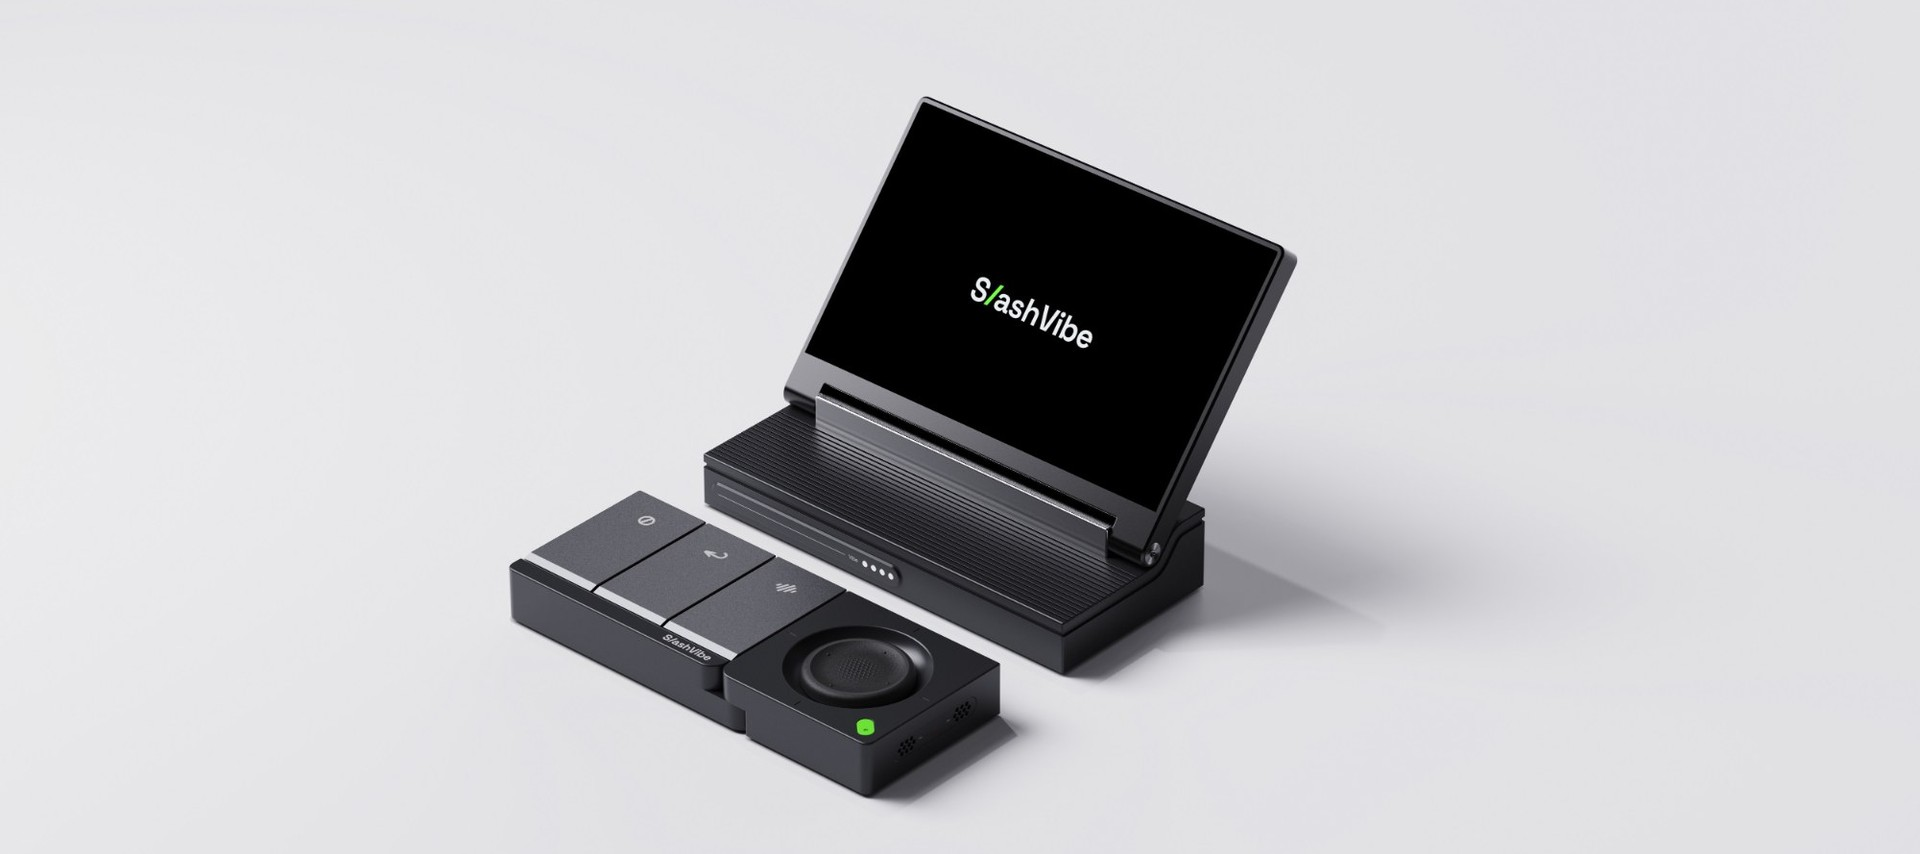
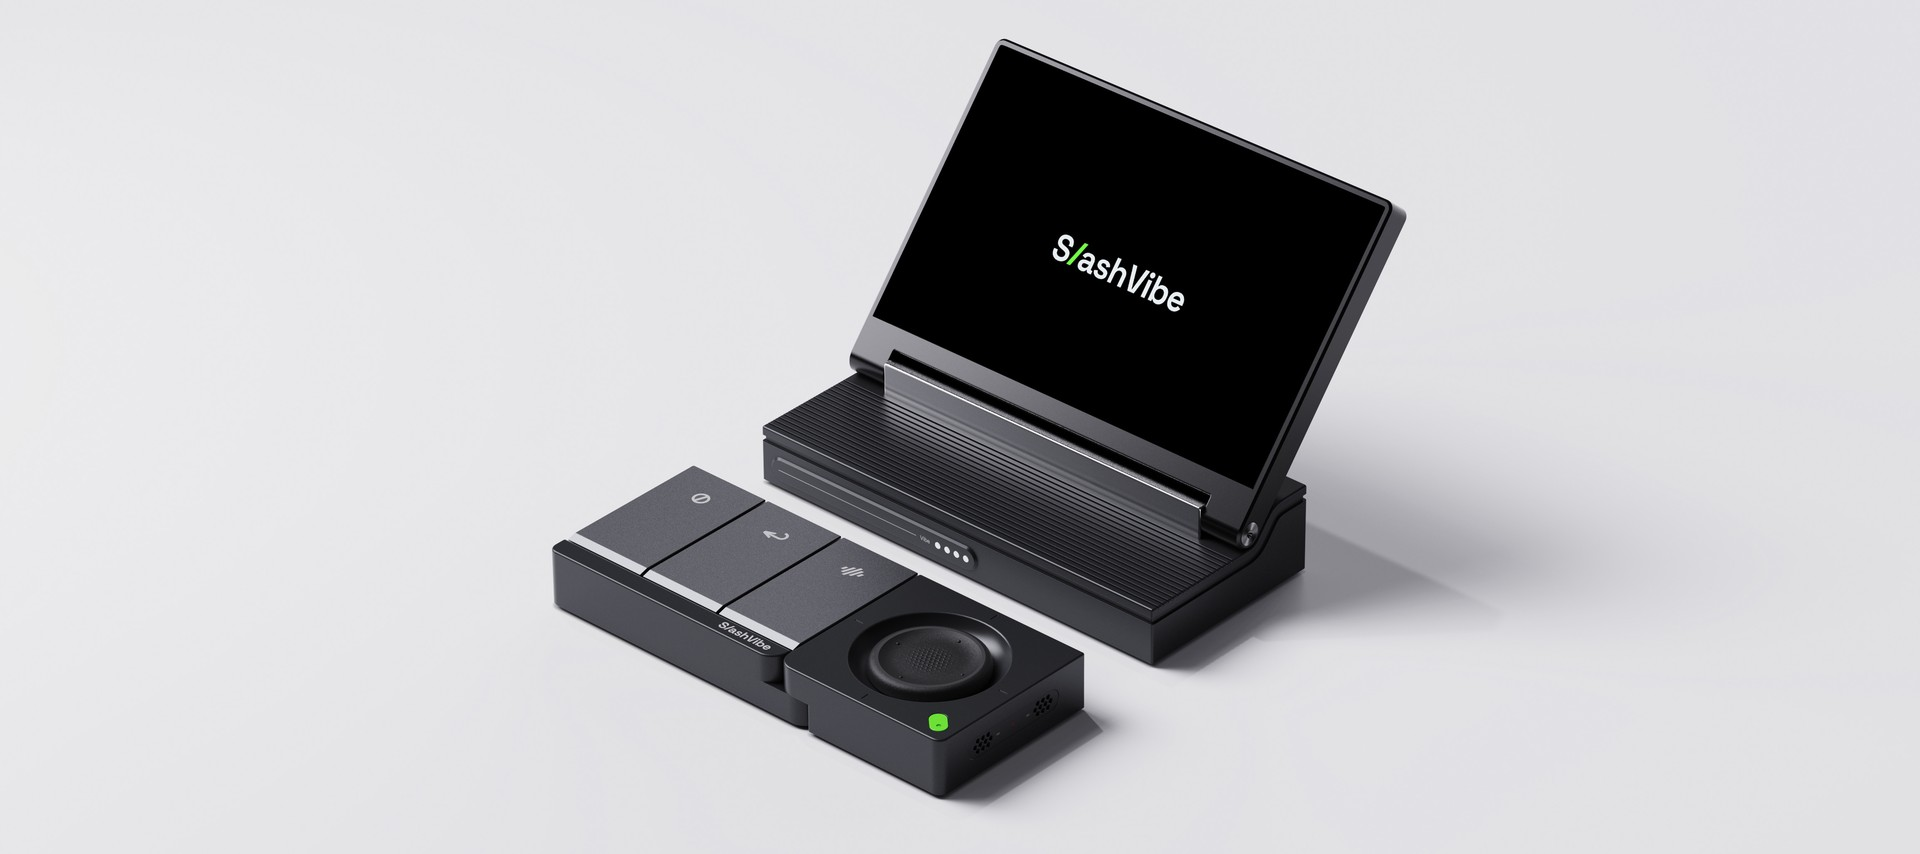
Standardize every product shot on the 模型图 set
All device renders now come from slashvibe/模型图, so the whole page
shares one camera angle and one lighting setup instead of mixing the
old design-project exports with the newer ones.

Assignment (each render used exactly once on the page):
- hero + index cover ← logo   (blank screen puts the eye on the hardware)
- Overview            ← 列表页 (native 16:9, uncropped)
- Constraints band    ← done   (replaces the old lower-res hw-alt, which
                                was the same DONE state at 2000px)
- Principles          ← working2
- Task Loop           ← working1 / waiting / error
- Key Mapping         ← 按键   (native ratio)

The new error render fills a real gap: STEP 5 talks about "green closes
quietly, red shows the stack" but had no picture, so the task-loop row
goes from two photos to three (WORKING / WAITING / ERROR) and the
figures renumber to a continuous FIG.01–07.

Also drop the .sv-photo--band forced 2.6:1 crop — the band image is now
cut to 2.6:1 at export, so the second crop was redundant. Removed three
orphaned assets (error-notitle, hw-logo, ui-working-a).

diff --git a/project-slashvibe.html b/project-slashvibe.html
@@ -422,7 +422,7 @@
       width: 100%;
       height: auto;
     }
-    .sv-photo--band img { aspect-ratio: 2.6 / 1; object-fit: cover; }
+    /* 长带图现在出图就是 2.6:1，交给图片自己的比例，不再二次裁切 */
     .sv-figcap {
       margin-top: 12px;
       font-family: var(--sv-mono);
@@ -885,8 +885,8 @@
         <p data-i18n-zh="真机一放上桌，手机习惯先被推翻：屏很矮、字很大、离眼睛更远，而人根本不会一直盯着它。卡片、分组容器、滚动列表——全部要重新验证。" data-i18n-en="The moment a real unit sits on the desk, phone habits collapse: the screen is short, the type is large, the eyes are further away, and nobody stares at it continuously. Cards, grouping containers, scrolling lists—all of it had to be re-tested.">真机一放上桌，手机习惯先被推翻：屏很矮、字很大、离眼睛更远，而人根本不会一直盯着它。卡片、分组容器、滚动列表——全部要重新验证。</p>
       </div>
 
-      <div class="sv-photo sv-photo--band">
-        <img src="images/slashvibe-hw-alt.jpg" alt="控制器与底座的形态关系" width="2000" height="1125" loading="lazy" />
+      <div class="sv-photo">
+        <img src="images/slashvibe-hw-alt.jpg" alt="控制器与底座的形态关系：屏幕横且矮，麦克风模块可从控制器上分离" width="1920" height="738" loading="lazy" />
       </div>
 
       <div class="sv-cards" style="margin-top:40px">
@@ -983,14 +983,18 @@
       <h2 class="pd-section-title" data-i18n-zh="任务循环使用流程" data-i18n-en="The Task Loop">任务循环使用流程</h2>
       <p class="pd-body" data-i18n-zh="一个回合：从口述到点头，手不离桌。下面先看五步的骨架，再看完整状态机——WAITING / READY / ERROR 三条分支最终都汇回同一个语音输入口。" data-i18n-en="One round: from speaking to nodding, hands never leaving the desk. The five-step skeleton comes first, then the full state machine—where the WAITING / READY / ERROR branches all converge back on the same voice input.">一个回合：从口述到点头，手不离桌。下面先看五步的骨架，再看完整状态机——WAITING / READY / ERROR 三条分支最终都汇回同一个语音输入口。</p>
 
-      <div class="sv-cards sv-cards--2" style="margin-bottom:48px">
+      <div class="sv-cards" style="margin-bottom:48px">
         <div>
-          <div class="sv-photo"><img src="images/slashvibe-hw-working.jpg" alt="WORKING 状态在真机上的样子" width="2000" height="1125" loading="lazy" /></div>
+          <div class="sv-photo"><img src="images/slashvibe-hw-working.jpg" alt="WORKING 状态在真机上的样子：蓝色，列出正在推进的步骤" width="1400" height="1050" loading="lazy" /></div>
           <div class="sv-figcap">FIG.03 — STEP 2 · WORKING</div>
         </div>
         <div>
-          <div class="sv-photo"><img src="images/slashvibe-hw-waiting.jpg" alt="WAITING 状态在真机上的样子" width="2000" height="1125" loading="lazy" /></div>
+          <div class="sv-photo"><img src="images/slashvibe-hw-waiting.jpg" alt="WAITING 状态在真机上的样子：黄色，列出 A–E 待选项" width="1400" height="1050" loading="lazy" /></div>
           <div class="sv-figcap">FIG.04 — STEP 3 · WAITING ON YOU</div>
+        </div>
+        <div>
+          <div class="sv-photo"><img src="images/slashvibe-hw-error.jpg" alt="ERROR 状态在真机上的样子：红色，直接呈现出错的那一轮" width="1400" height="1050" loading="lazy" /></div>
+          <div class="sv-figcap">FIG.05 — STEP 5 · ERROR</div>
         </div>
       </div>
 
@@ -1026,7 +1030,7 @@
       </div>
 
       <div style="margin-top:72px">
-        <span class="sv-fig">FIG.05 — 完整任务状态机</span>
+        <span class="sv-fig">FIG.06 — 完整任务状态机</span>
         <div class="sv-flowwrap">
           <div class="sv-flowframe">
             <img src="images/slashvibe-flow.svg" alt="SlashVibe 完整任务状态机：从开机到语音输入回到 WORKING 的全流程，含 WAITING / READY / ERROR 三条分支" width="1180" height="2560" loading="lazy" />
